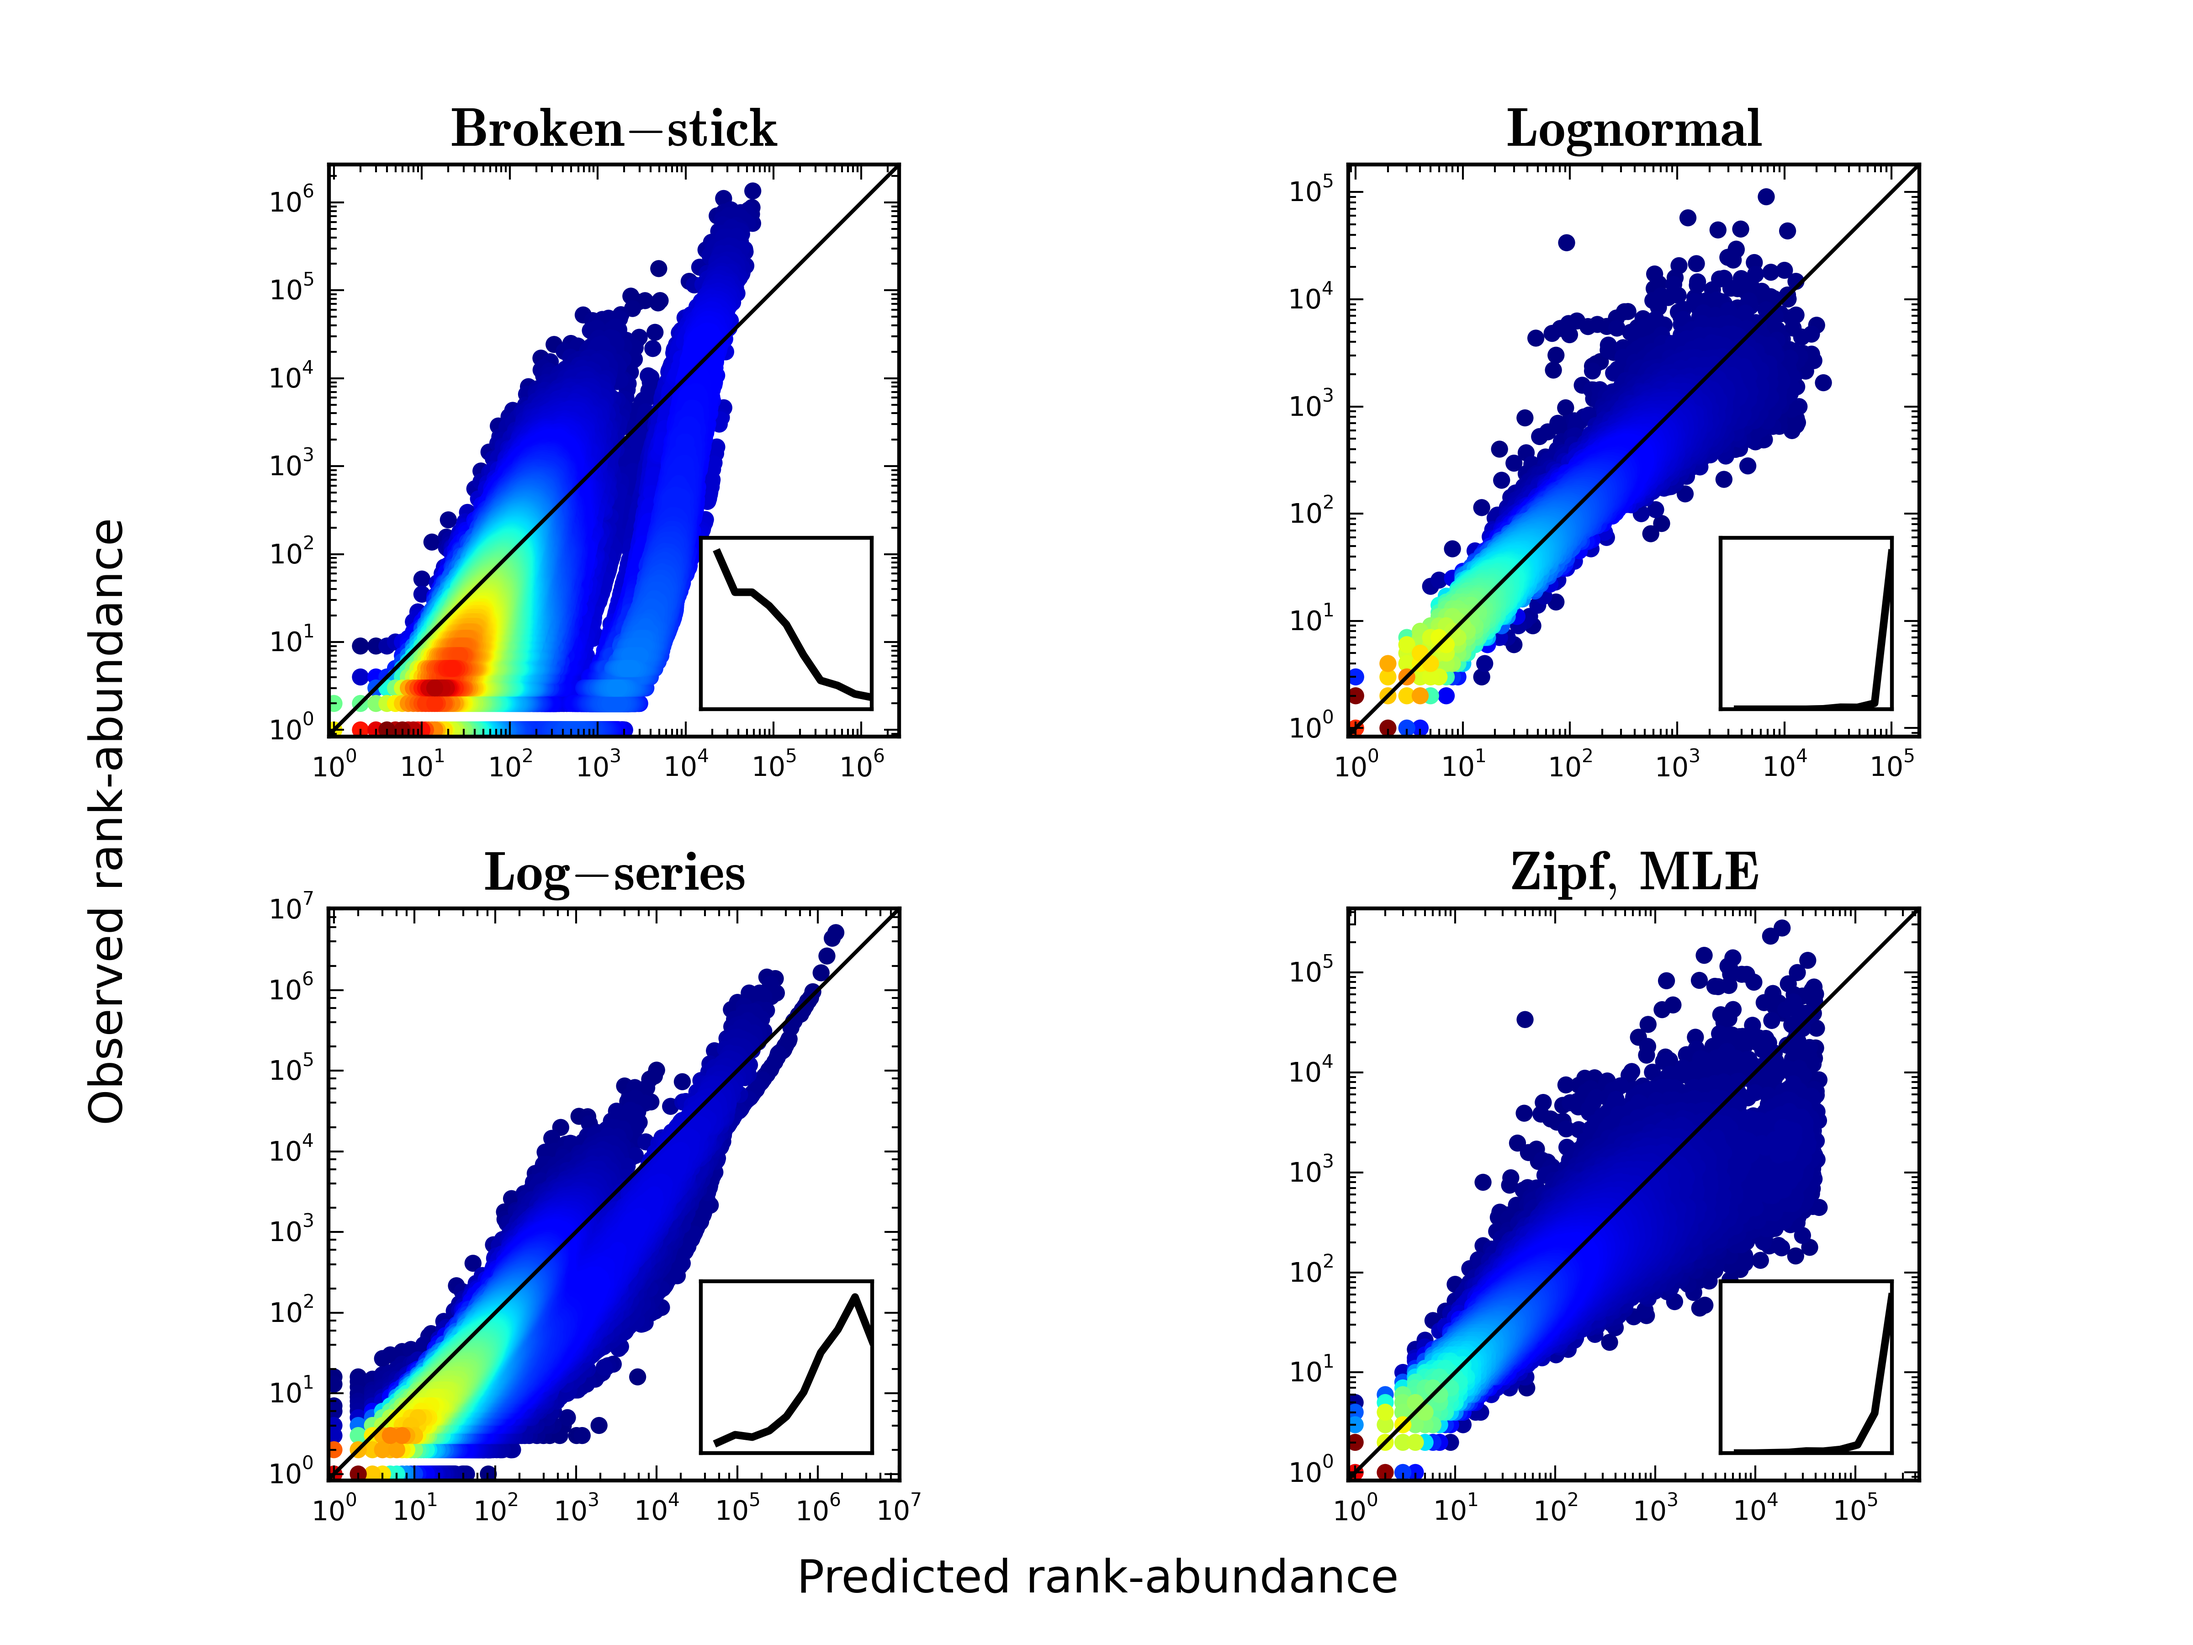
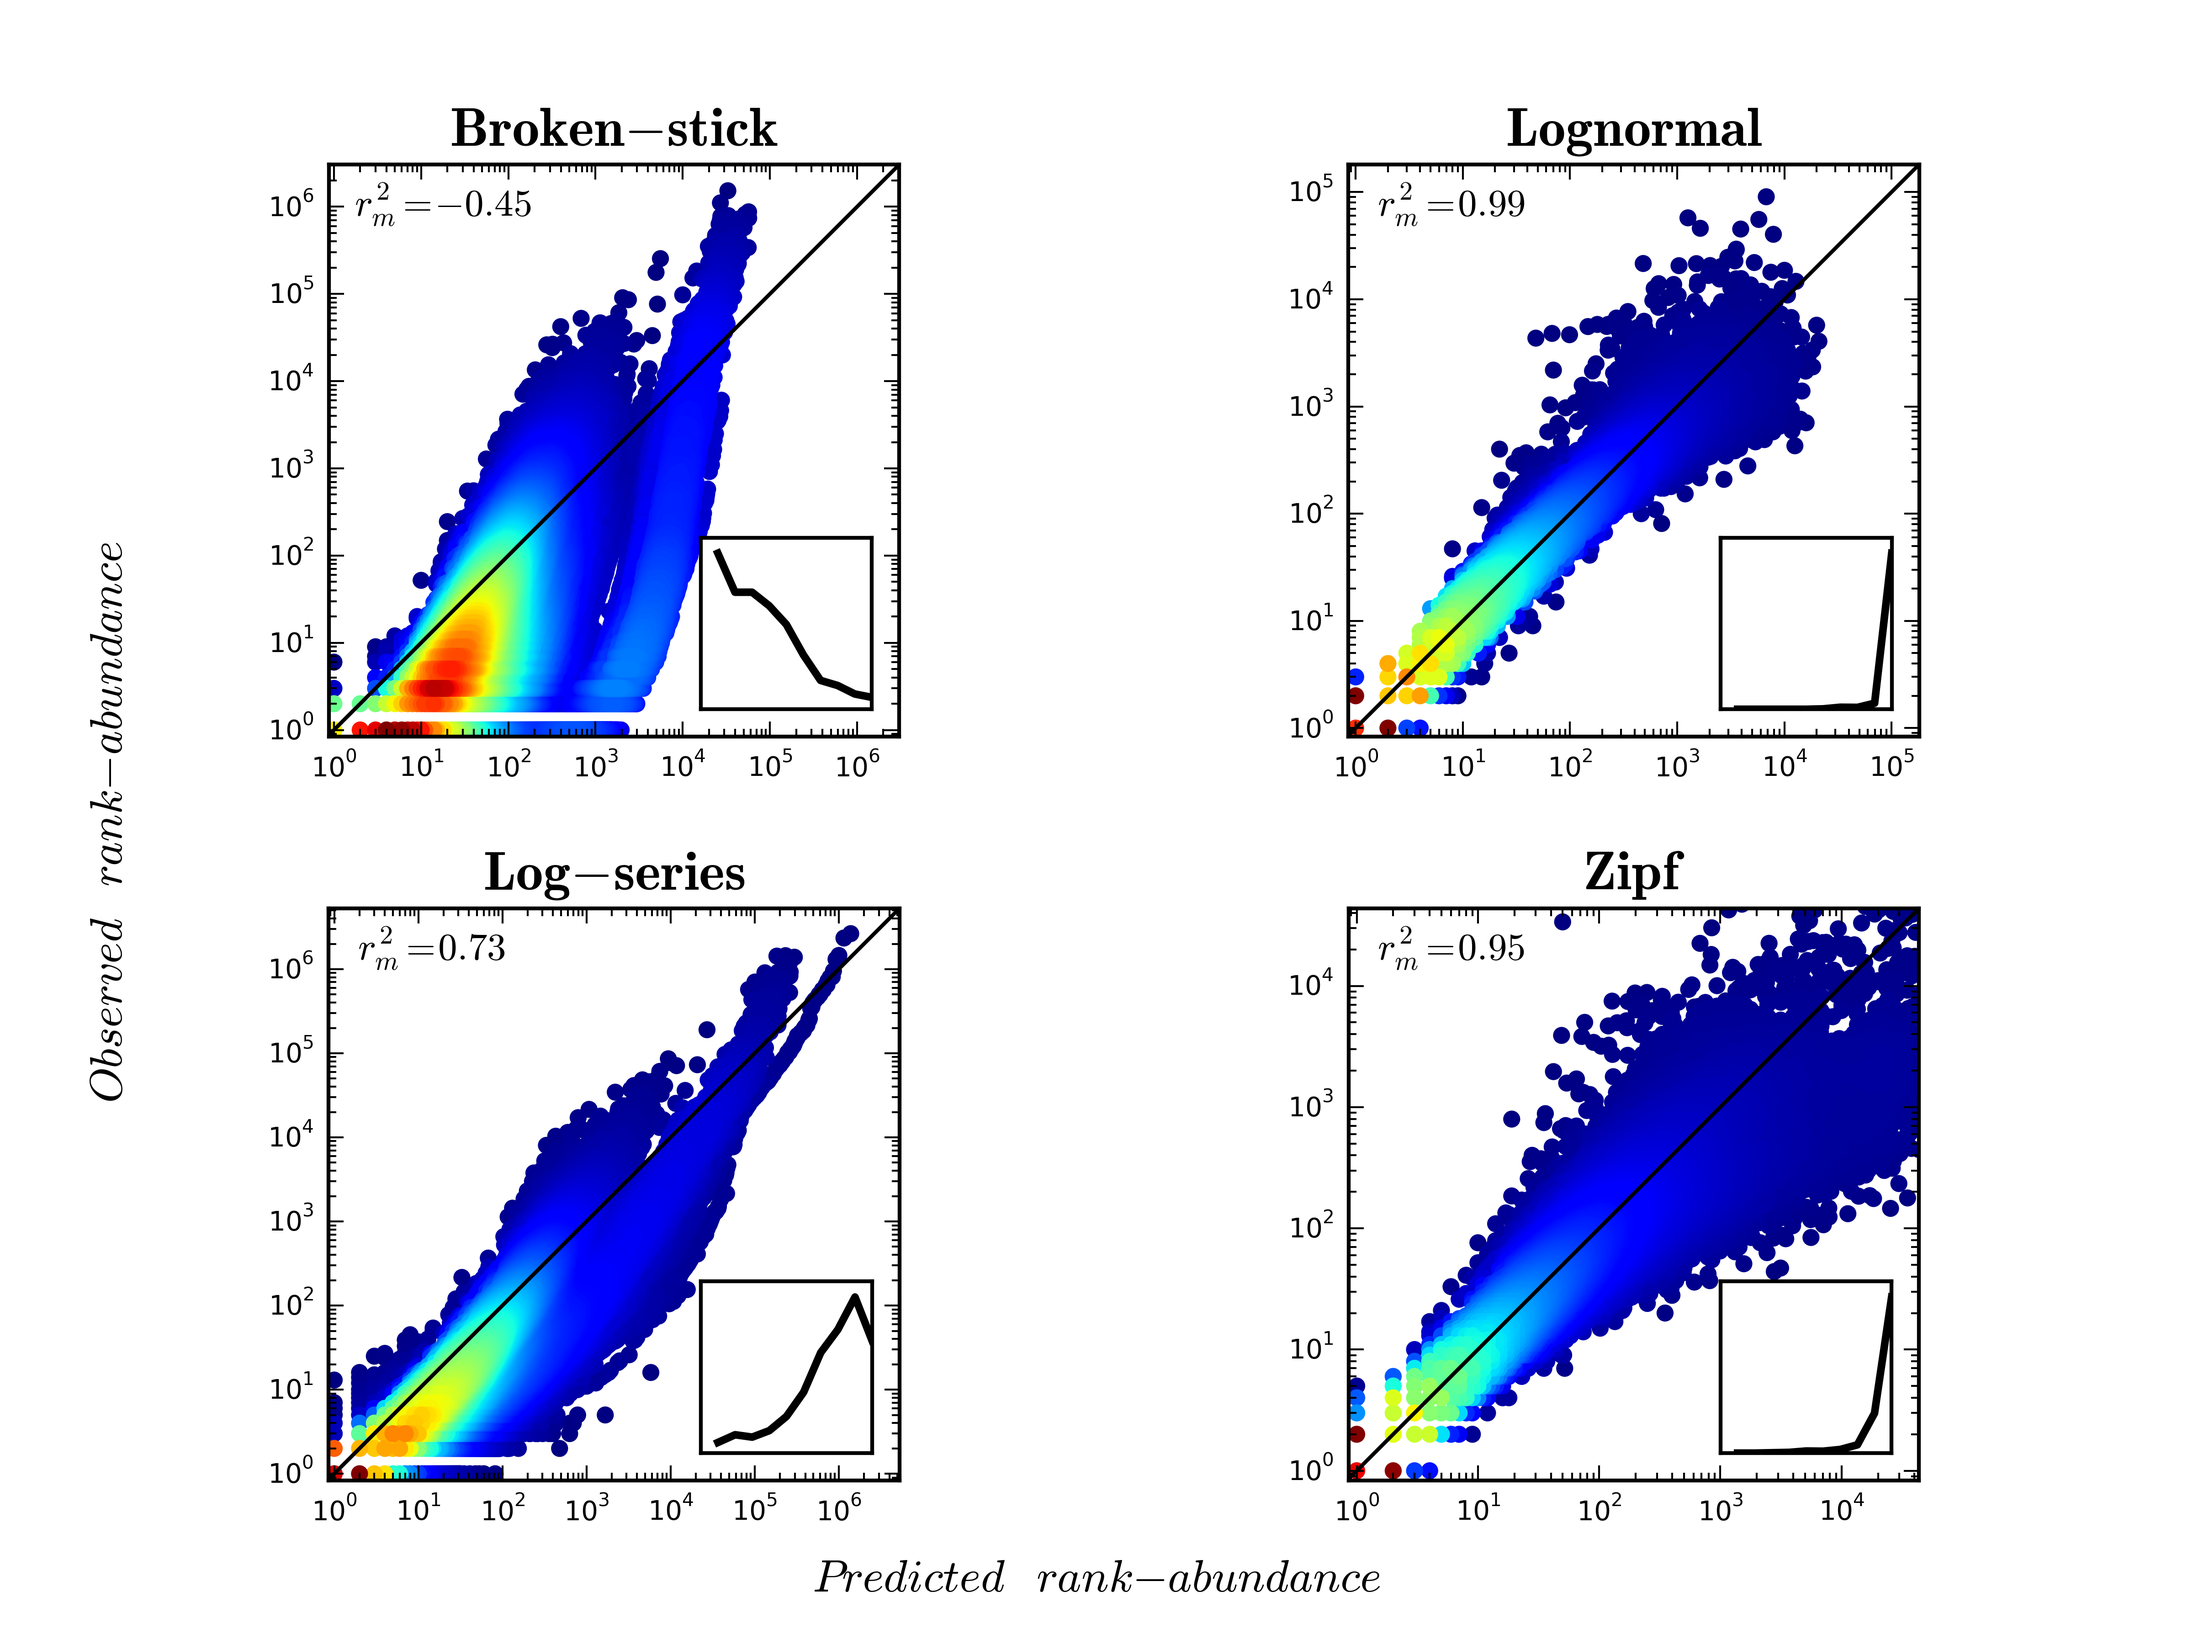
Edits to figures

diff --git a/Python/generate_figs_zipf.py b/Python/generate_figs_zipf.py
@@ -1030,7 +1030,6 @@ def plot_obs_pred_sad(methods, datasets, n, figname = 'Fig2', data_dir=mydir, \
             if method == 'zipf':
                 obs_pred_data = import_obs_pred_data(data_dir + 'ObsPred/Stratified/'+ method + '_'+  zipfType+'_obs_pred_stratify.txt')
                 INh2 = import_NSR2_data(data_dir + 'NSR2/Stratified/' + method + '_mle' + '_NSR2_stratify.txt')
-                print ((INh2["R2"]))
             #if method == 'rgf':
             #    obs_pred_data = import_obs_pred_data(data_dir + 'ObsPred/Stratified/'+ 'zipf' + '_'+  method+'_obs_pred_stratify.txt')
             #    INh2 = import_NSR2_data(data_dir + 'NSR2/Stratified/' +'zipf' + '_'+  method + '_NSR2_stratify.txt')
@@ -1072,7 +1071,7 @@ def plot_obs_pred_sad(methods, datasets, n, figname = 'Fig2', data_dir=mydir, \
                 axis_max = 2 * max(obs)
             #print plot_dim
             ax = fig.add_subplot(plot_dim, plot_dim, count+1)
-            ax.set(adjustable='box-forced', aspect='equal')
+
             if method == 'geom':
                 ax.set_title(r"$\mathbf{Broken-stick}$")
             elif method == 'lognorm':
@@ -1080,40 +1079,56 @@ def plot_obs_pred_sad(methods, datasets, n, figname = 'Fig2', data_dir=mydir, \
             elif method == 'mete':
                 ax.set_title(r"$\mathbf{Log-series}$")
             elif method == 'zipf':
-                ax.set_title(r"$\mathbf{Zipf,\, MLE}$")
+                ax.set_title(r"$\mathbf{Zipf}$")
             elif method == 'rgf':
                 ax.set_title(r"$\mathbf{Zipf, \, RGF}$")
             print len(pred), len(obs)
             macroecotools.plot_color_by_pt_dens(pred, obs, radius, loglog=1,
                             plot_obj=plt.subplot(plot_dim,plot_dim,count+1))
+            #
+            #plt.text(0.1, 0.9,'matplotlib', ha='center', va='center', transform=ax.transAxes)
+
 
             plt.plot([axis_min, axis_max],[axis_min, axis_max], 'k-')
-            plt.xlim(0, axis_max)
-            plt.ylim(0, axis_max)
-
+            if method == 'zipf':
+                plt.xlim(0, max(pred))
+                plt.ylim(0, max(pred))
+            else:
+                plt.xlim(0, axis_max)
+                plt.ylim(0, axis_max)
+            r2s = ((INh2["R2"]))
+            r2s = r2s.astype(float)
+            # insert r2 of all data
+            r2_all = macroecotools.obs_pred_rsquare(np.log10(obs), np.log10(pred))
+            r2text = r"${}^{{2}}_{{m}} = {:.{p}f} $".format('r',r2_all , p=2)
+            if method == 'geom':
+                plt.text(0.20, 0.93, r2text,  fontsize=10,
+                    horizontalalignment='center',
+                    verticalalignment='center',transform = ax.transAxes)
+            else:
+                plt.text(0.18, 0.93, r2text,  fontsize=10,
+                    horizontalalignment='center',
+                    verticalalignment='center',transform = ax.transAxes)
             plt.tick_params(axis='both', which='major', labelsize=7)
             plt.subplots_adjust(wspace=0.5, hspace=0.3)
 
             axins = inset_axes(ax, width="30%", height="30%", loc=4)
-            #if str(dataset) == 'EMPclosed' or str(dataset) == 'EMPopen':
-            #if method == 'zipf':
 
-            r2s = ((INh2["R2"]))
-            r2s = r2s.astype(float)
             hist_r2 = np.histogram(r2s, range=(0, 1))
             xvals = hist_r2[1] + (hist_r2[1][1] - hist_r2[1][0])
             xvals = xvals[0:len(xvals)-1]
             yvals = hist_r2[0]
             plt.plot(xvals, yvals, 'k-', linewidth=2)
             plt.axis([0, 1, 0, 1.1 * max(yvals)])
+            ax.set(adjustable='box-forced', aspect='equal')
             #else:
             #    hist_mete_r2(site, np.log10(obs), np.log10(pred))
             plt.setp(axins, xticks=[], yticks=[])
 
 
             count += 1
-        fig.text(0.50, 0.04, 'Predicted rank-abundance', ha='center', va='center')
-        fig.text(0.05, 0.5, 'Observed rank-abundance', ha='center', va='center', rotation='vertical')
+        fig.text(0.50, 0.04, r'$Predicted \; rank-abundance$', ha='center', va='center')
+        fig.text(0.05, 0.5, r'$Observed \; rank-abundance$', ha='center', va='center', rotation='vertical')
         fig_name = str(mydir[:-6]) + '/figures/' + figname + '.png'
         plt.savefig(fig_name, dpi=600)#, bbox_inches = 'tight')#, pad_inches=0)
         plt.close()
@@ -1293,18 +1308,6 @@ def NSR2_regression(methods, datasets, figname = 'Fig4', \
         params = ['N','S']
         removeSADs = []
 
-        #get_bad_zipfs = import_NSR2_data(data_dir + 'NSR2/Stratified/'+ 'zipf' + '_'+ 'mle' + '_NSR2_stratify.txt')
-        #site = np.asarray(list(((get_bad_zipfs["N"]))))
-        #N = np.asarray(list(((get_bad_zipfs["N"]))))
-        #S = np.asarray(list(((get_bad_zipfs["S"]))))
-        #r2s = np.asarray(list(((get_bad_zipfs["R2"]))))
-        #zipNsite = zip(site, N, S, r2s)
-        #for x in zipNsite:
-        #    if x[3] < 0.1:
-        #        removeSADs.append(int(x[0]))
-        #print len(removeSADs)
-        #print removeSADs.sort()
-        #removeSADs = np.asarray(removeSADs)
         for i, param in enumerate(params):
             for j, method in enumerate(methods):
                 if method == 'zipf':
@@ -1317,13 +1320,7 @@ def NSR2_regression(methods, datasets, figname = 'Fig4', \
                 y = np.asarray(list(((obs_pred_data["R2"]))))
                 #if i == 0:
                 x = np.log10(np.asarray(list(((obs_pred_data[param])))))
-                #removeZip = zip(site, x1, y1)
-                #if method == 'zipf':
-                #    print site
-                #removeZipList = [k for k in removeZip if int(k[0]) not in removeSADs]
-                #print len(removeZipList)
-                #y = np.asarray([m[2] for m in removeZipList])
-                #x = np.asarray([n[1] for n in removeZipList])
+
                 print len(x),  len(y)
                 mean_x = np.mean(x)
                 mean_y = np.mean(y)
@@ -1374,7 +1371,7 @@ def NSR2_regression(methods, datasets, figname = 'Fig4', \
 
         fig.subplots_adjust(wspace = 0.2, hspace = 0.2, top=0.70)
         plt.tight_layout(pad=0.4, w_pad=0.5, h_pad=0.5)
-        fig.text(0.001, 0.5, r'$r^{2}$', ha='center', va='center', size = 'large',rotation='vertical')
+        fig.text(0.001, 0.5, r'$r^{2}_{m}$', ha='center', va='center', size = 'large',rotation='vertical')
         fig_name = str(mydir[:-6]) + '/figures/' + figname  + '.png'
         plt.savefig(fig_name, bbox_inches = "tight", pad_inches = 0.4, dpi = 600)
         #plt.xscale()
@@ -1824,25 +1821,34 @@ def obs_pred_Nmax_plot(methods,datasets, figname = 'Fig5', zipfType = 'mle', \
                 macroecotools.plot_color_by_pt_dens(N, y, radius, loglog=1,
                                 plot_obj=plt.subplot(3,len(methods),count+1))
                 slope, intercept, r_value, p_value, std_err = stats.linregress(np.log10(N),np.log10(y))
-                print "r-value is " + str(r_value)
-                print "p-value is " + str(p_value)
-                print "slope is " + str(slope)
+                print "r-squared: " + str(r_value ** 2)
+                print "p-value: " + str(p_value)
+                print "slope: " + str(slope)
                 #predict_y = intercept + slope * N
                 #pred_error = y - predict_y
                 #degrees_of_freedom = len(N) - 2
                 #residual_std_error = np.sqrt(np.sum(pred_error**2) / degrees_of_freedom)
                 #plt.plot(N, predict_y, 'k-')
+                predict_y = intercept + slope * N
+                pred_error = y - predict_y
+                degrees_of_freedom = len(N) - 2
+                residual_std_error = np.sqrt(np.sum(pred_error**2) / degrees_of_freedom)
+                print predict_y
                 if i == 0:
-                    plt.plot([0, x_axis_max],[0, x_axis_max], 'k-')
+                    plt.plot([0, x_axis_max],[0, x_axis_max], 'k-', color = 'darkgray', linestyle='dashed')
+                plt.plot(N, predict_y, 'k-')
                 if (i ==1  or i ==2) and j ==0:
                     plt.xlim(0, x_axis_max)
                     plt.ylim(0, 1)
+
                 elif i == 2 and (j == 2):
                     plt.xlim(0, x_axis_max)
                     plt.ylim(0, 1)
+                    #plt.plot(N, predict_y, 'k-')
                 else:
                     plt.xlim(0, x_axis_max)
                     plt.ylim(0, y_axis_max)
+                    #plt.plot(N, predict_y, 'k-')
 
 
                 plt.yscale('log')
@@ -1852,7 +1858,7 @@ def obs_pred_Nmax_plot(methods,datasets, figname = 'Fig5', zipfType = 'mle', \
 
         plt.tight_layout(pad=2, w_pad=2, h_pad=2)
         #fig.text(0.02, 0.5, r'$N_{max}$', ha='center', va='center', size = 'x-large', rotation='vertical')
-        fig.text(0.527, 0.05, r'$log_{10}(N)$', ha='center', va='center', size = 'large',rotation='horizontal')
+        fig.text(0.527, 0.04, r'$log_{10}(N)$', ha='center', va='center', size = 'large',rotation='horizontal')
         fig_name = str(mydir[:-6]) + '/figures/' + figname + '.png'
         plt.savefig(fig_name, dpi=600)#, bbox_inches = 'tight')#, pad_inches=0)
         plt.close()
@@ -2151,19 +2157,14 @@ datasets = ['EMPclosed', 'HMP','MGRAST']
 methods = ['geom', 'lognorm', 'mete', 'zipf']
 #plot_subsampled_data(methods, datasets)
 
-obs_pred_Nmax_plot(methods, datasets, stratify = True, zipfType = 'mle')
+#obs_pred_Nmax_plot(methods, datasets, stratify = True, zipfType = 'mle')
 
 #stratifyData(methods,datasets, zipfType = 'mle', totalSADs = 500, remove = True)
-#plot_obs_pred_sad(methods, datasets, 352899, zipfType = 'mle', stratify = True)
+plot_obs_pred_sad(methods, datasets, 352899, zipfType = 'mle', stratify = True)
+#NSR2_regression(methods, datasets)
+#plot_obs_pred_sad(methods, datasets, 20, figname = 'test', zipfType = 'mle', stratify = True)
+
 # 352899
-NSR2_regression(methods, datasets)
+#NSR2_regression(methods, datasets)
 #obs_pred_Nmax_plot(methods, datasets, stratify = True)
 #plot_example_fig()
-
-#generate_obs_pred_data(datasets, methods, zipfType = 'mle')
-
-#rad = [500, 400, 350, 320, 310, 300, 250, 240, 230, 220, 200, 180, 160, 140, 130, 120, 100, 80, 70, 60, 40, 20, 10, 9,9,9,9,9,9,9,9,9,9,9,9, 5, 5,5,5,5,5,2,2,2,2,2,2,1,1,1,1,1,1,1,1,1,1,1,1,1,1,1,1,1,1,1,1,1,1,1,1,1,1,1,1,1,1,1,1,1,1,1,1,1,1]
-
-#zipf_class = zipf(rad, 'fmin')
-#pred_tuple = zipf_class.zipf_rgf()
-#print pred_tuple
